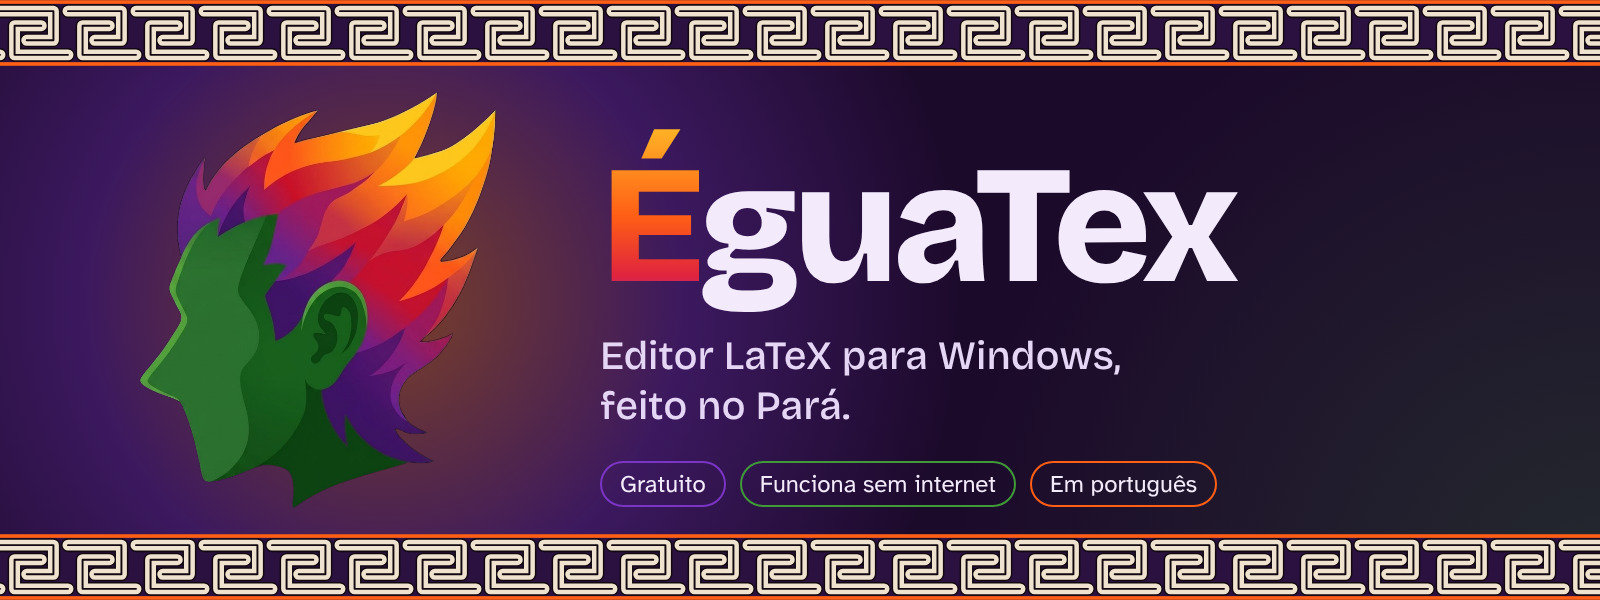
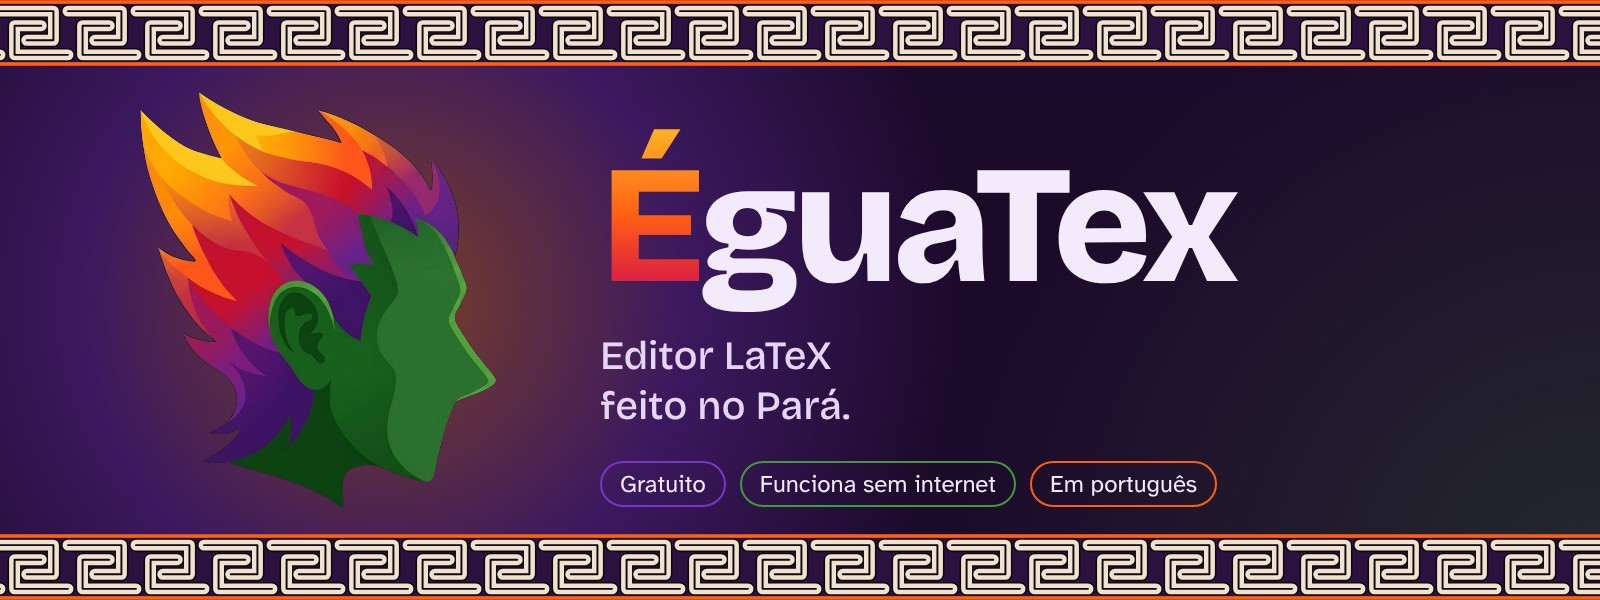
Add files via upload

diff --git a/profile/README.md b/profile/README.md
@@ -1,6 +1,6 @@
 <p align="center">
   <a href="https://egua-tex.github.io/">
-    <img src="capa.jpg" alt="ÉguaTex, editor LaTeX para Windows, feito no Pará. Gratuito, funciona sem internet e em português. Ao lado, a logo do curupira de pele verde e cabelo em chamas." width="100%">
+    <img src="capa.jpg" alt="ÉguaTex, editor LaTeX feito no Pará. Gratuito, funciona sem internet e em português. Ao lado, a logo do curupira de pele verde e cabelo em chamas." width="100%">
   </a>
 </p>
 
@@ -9,22 +9,24 @@
   &nbsp;·&nbsp;
   <a href="https://egua-tex.github.io/#baixar"><strong>Baixar</strong></a>
   &nbsp;·&nbsp;
-  <a href="https://egua-tex.github.io/#instalar"><strong>Como instalar</strong></a>
+  <a href="https://egua-tex.github.io/instalar.html"><strong>Como instalar</strong></a>
+  &nbsp;·&nbsp;
+  <a href="https://egua-tex.github.io/templates.html"><strong>Templates</strong></a>
   &nbsp;·&nbsp;
   <a href="https://egua-tex.github.io/contato.html"><strong>Contato</strong></a>
 </p>
 
 ## Sobre
 
-O ÉguaTex é um programa para Windows que escreve e compila documentos em LaTeX, como TCC, artigos e relatórios, mostrando o PDF ao lado do texto. O compilador já vem junto no instalador, então não é preciso instalar o LaTeX à parte nem estar conectado à internet para trabalhar.
+O ÉguaTex é um programa que escreve e compila documentos em LaTeX, como TCC, artigos e relatórios, mostrando o PDF ao lado do texto. O compilador já vem junto no instalador, então não é preciso instalar o LaTeX à parte nem estar conectado à internet para trabalhar.
 
-A ideia é simples: o texto científico deve caber no computador de casa de quem estuda na Amazônia, sem depender de máquina de laboratório ou de conexão boa.
+A ideia é simples: escrever LaTeX de qualquer canto da Amazônia, mesmo sem internet.
 
 ## Por que um curupira?
 
-Na lenda, o curupira protege a floresta. Tem o cabelo de fogo e os pés virados para trás. O ÉguaTex pegou emprestada essa teimosia de andar na direção contrária: levar o LaTeX para longe dos grandes laboratórios e para perto de quem escreve na beira do rio.
+Na lenda, o curupira protege a floresta. Tem o cabelo de fogo e os pés virados para trás, e quem tenta seguir as pegadas dele acaba andando na direção errada. O ÉguaTex pegou emprestada essa teimosia: o texto científico cabe no computador de casa e funciona sem internet na beira do rio e no ônibus para a UFPA.
 
-E o nome? "Égua" é como a gente diz no Pará que algo é bom demais. Égua, que fórmula bonita.
+E o nome? "Égua" é como a gente diz que algo é bom demais por aqui. Égua, que fórmula bonita.
 
 ## Contato
 
